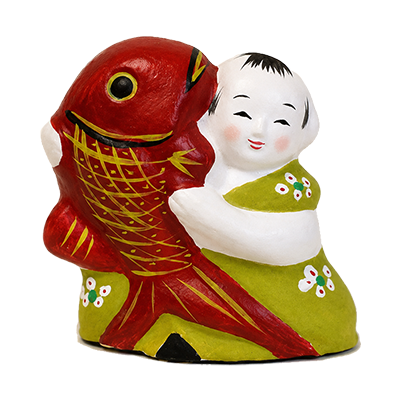
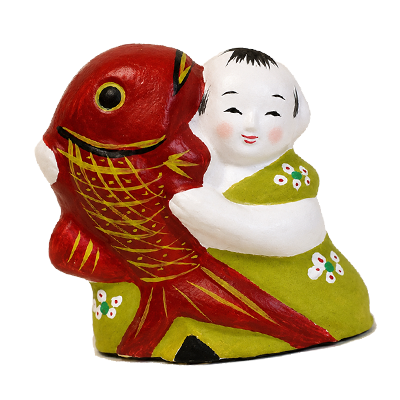
文章修正、画像微調整

Changed region(s): [[0.09, 0.09, 0.96, 0.93]]

diff --git a/index.html b/index.html
@@ -370,8 +370,8 @@
               <div class="p-spot__body">
                 <p class="p-spot__text">
                   河童と淵神伝説で有名な河原。<br>
-                  現在は浅瀬で川面は澄んでいるが、かつては底を見通せないほど深かったという。<br>
-                  伝承では恐ろしさを感じるが、迎えてくれる河童の石像は意外にも愛嬌がある。
+                  現在は浅瀬で川面は澄んでいるが、かつては底を見通せないほど深かったといいます。<br>
+                  伝承では恐ろしさも感じる河童が、こちらで出迎えくれる石像は意外にも愛嬌があります。
                 </p>
 
                 <p class="p-spot__address">
@@ -392,8 +392,8 @@
               <div class="p-spot__body">
                 <p class="p-spot__text">
                   馬と人間が同じ建物で暮らしていた伝統住居、曲がり家。<br>
-                  当時のままの建物を移築し、村を形成。<br>
-                  実際に馬やにわとりを飼育しており、水田も有り。懐かしい原風景をゆったりと堪能できる。
+                  当時のままの建物を移築し、村が形成されています。<br>
+                  実際に馬やにわとりを飼育しており、水田も有り。懐かしい原風景をゆったりと堪能できます。
                 </p>
 
                 <p class="p-spot__address">

diff --git a/css/style.css b/css/style.css
@@ -2007,7 +2007,7 @@ address {
   flex-wrap: wrap;
   align-items: center;
   margin: 0;
-  color: #22207f;
+  color: #3d3d3d;
 }
 
 .p-access__title-icon {
@@ -2073,26 +2073,24 @@ address {
 }
 
 .p-access__heading {
-  position: relative;
+  display: flex;
+  align-items: center;
+  gap: 7px;
   margin: 0 0 22px;
-  padding-left: 17px;
-  color: #22207f;
+  color: #2f3b56;
   font-size: 1.6rem;
   font-weight: 500;
   line-height: 1.6;
 }
 
 .p-access__heading::before {
-  position: absolute;
-  top: 0.6em;
-  left: 0;
+  flex: 0 0 auto;
   width: 0;
   height: 0;
-  border-top: 8px solid #22207f;
+  border-top: 8px solid #2f3b56;
   border-right: 6px solid transparent;
   border-left: 6px solid transparent;
   content: "";
-  transform: translateY(-50%);
 }
 
 .p-access__route-figure {

diff --git a/sass/project/_access.scss b/sass/project/_access.scss
@@ -38,7 +38,7 @@
   flex-wrap: wrap;
   align-items: center;
   margin: 0;
-  color: #22207f;
+  color: #3d3d3d;
 }
 
 .p-access__title-icon {
@@ -105,27 +105,24 @@
 }
 
 .p-access__heading {
-  position: relative;
+  display: flex;
+  align-items: center;
+  gap: 7px;
   margin: 0 0 22px;
-  padding-left: 17px;
-  color: #22207f;
-  
+  color: #2f3b56;
   font-size: 1.6rem;
   font-weight: 500;
   line-height: 1.6;
 }
 
 .p-access__heading::before {
-  position: absolute;
-  top: 0.6em;
-  left: 0;
+  flex: 0 0 auto;
   width: 0;
   height: 0;
-  border-top: 8px solid #22207f;
+  border-top: 8px solid #2f3b56;
   border-right: 6px solid transparent;
   border-left: 6px solid transparent;
   content: "";
-  transform: translateY(-50%);
 }
 
 .p-access__route-figure {
